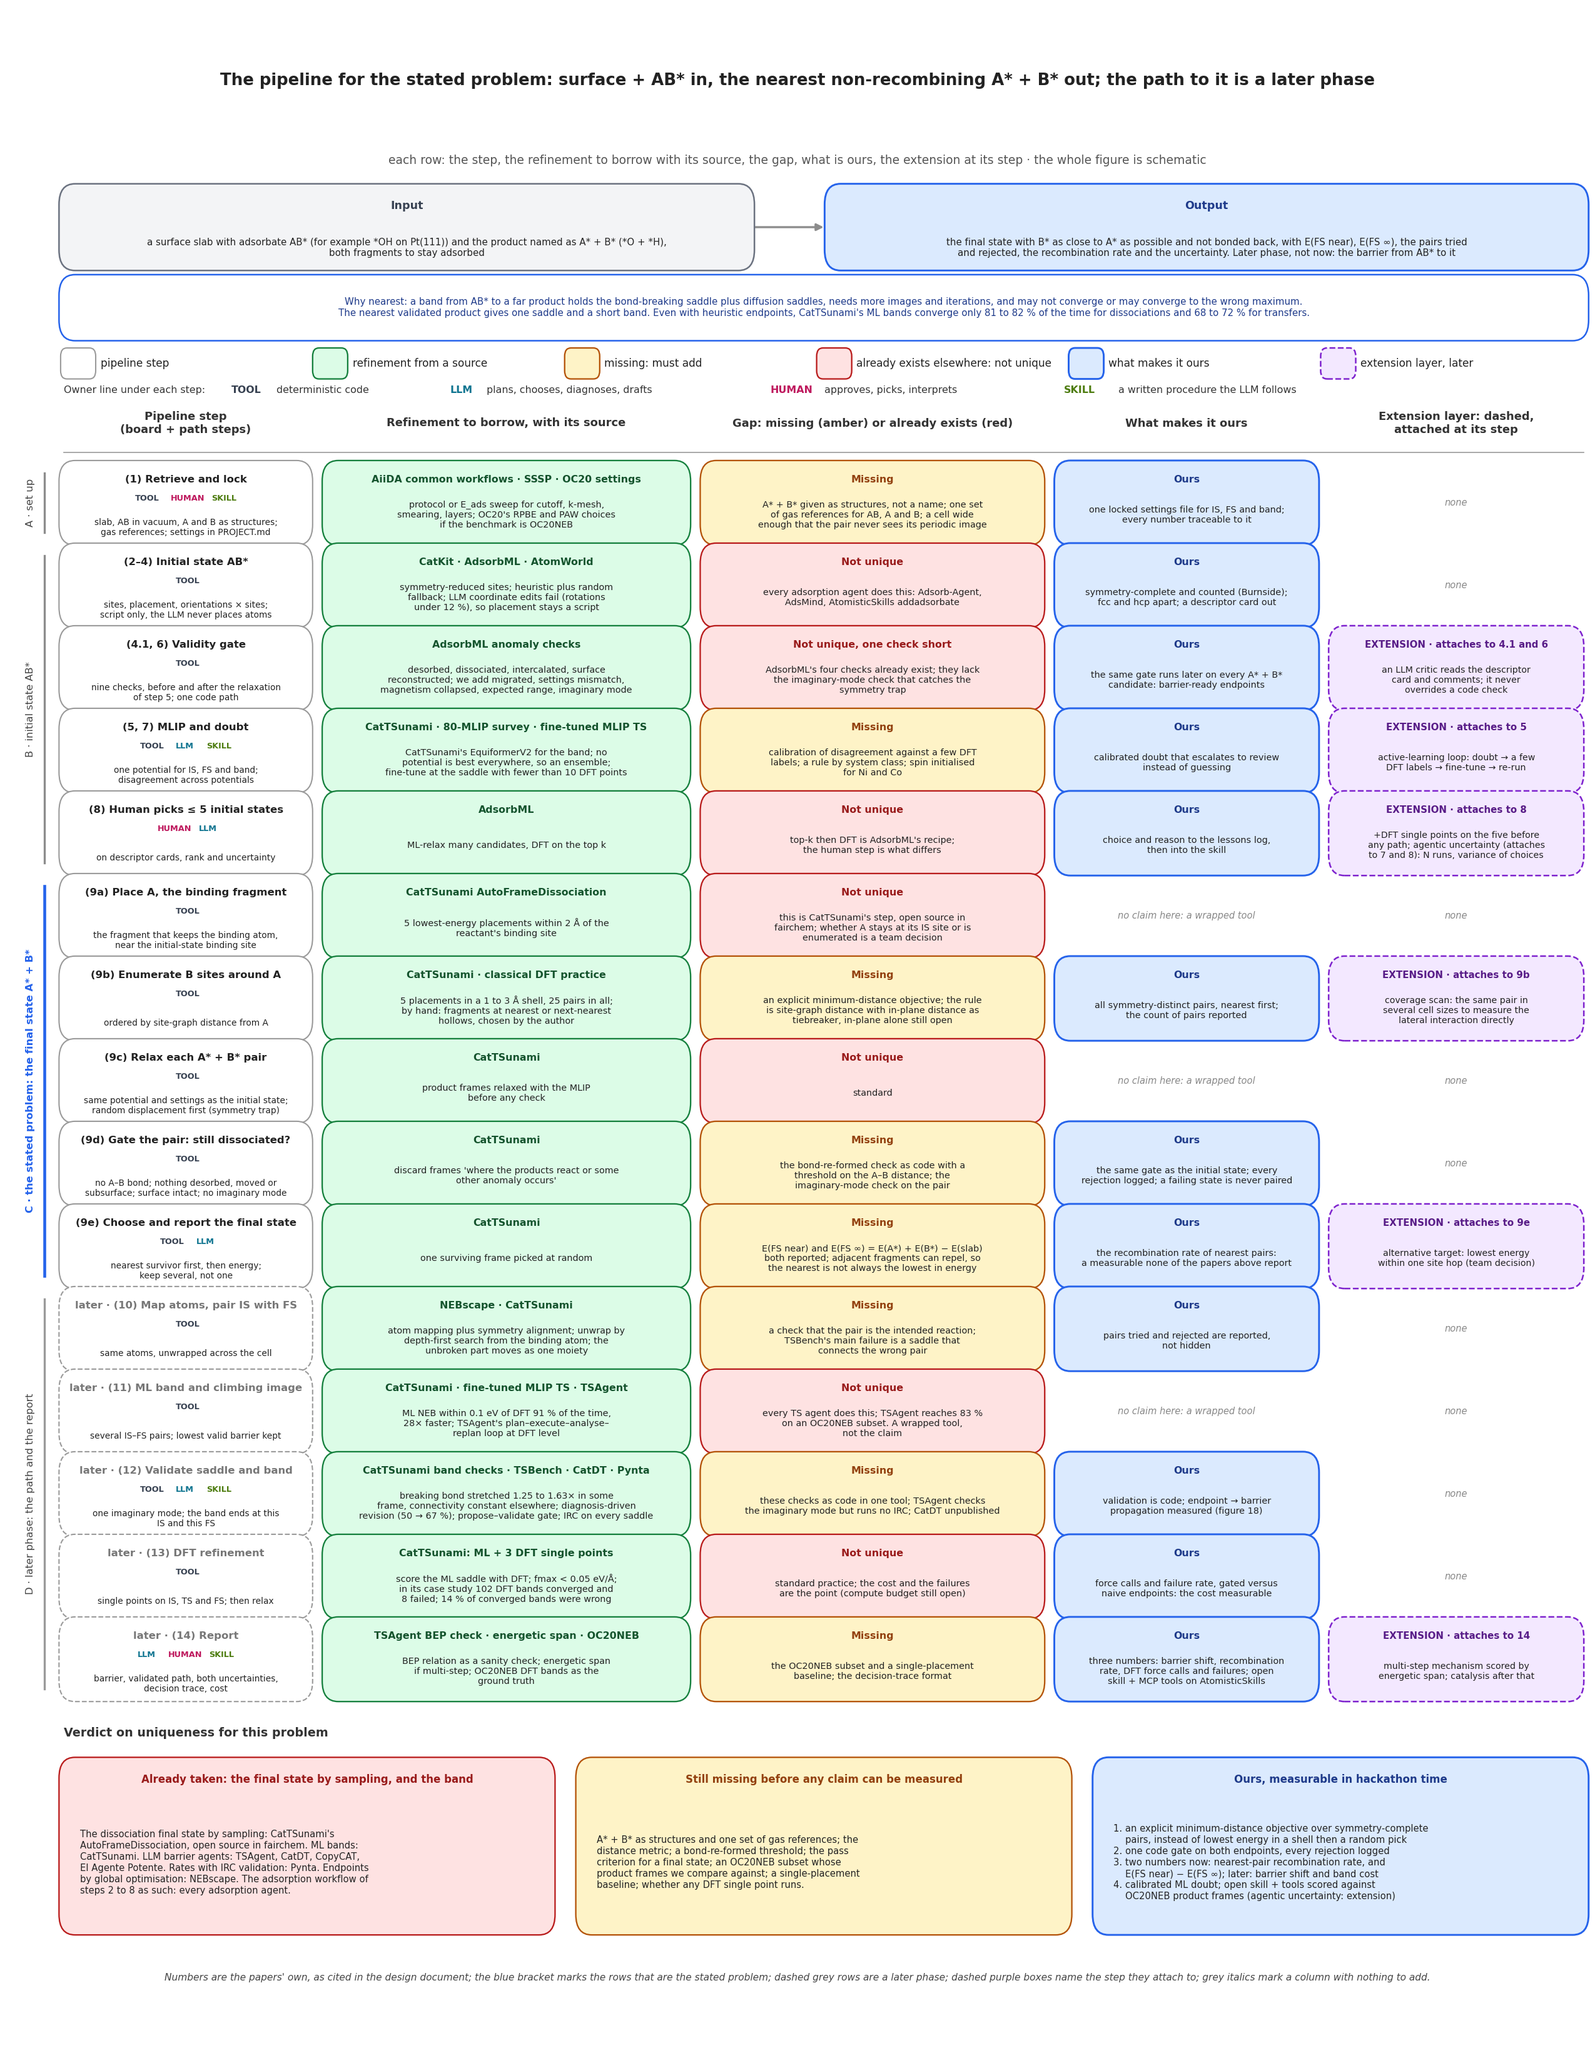
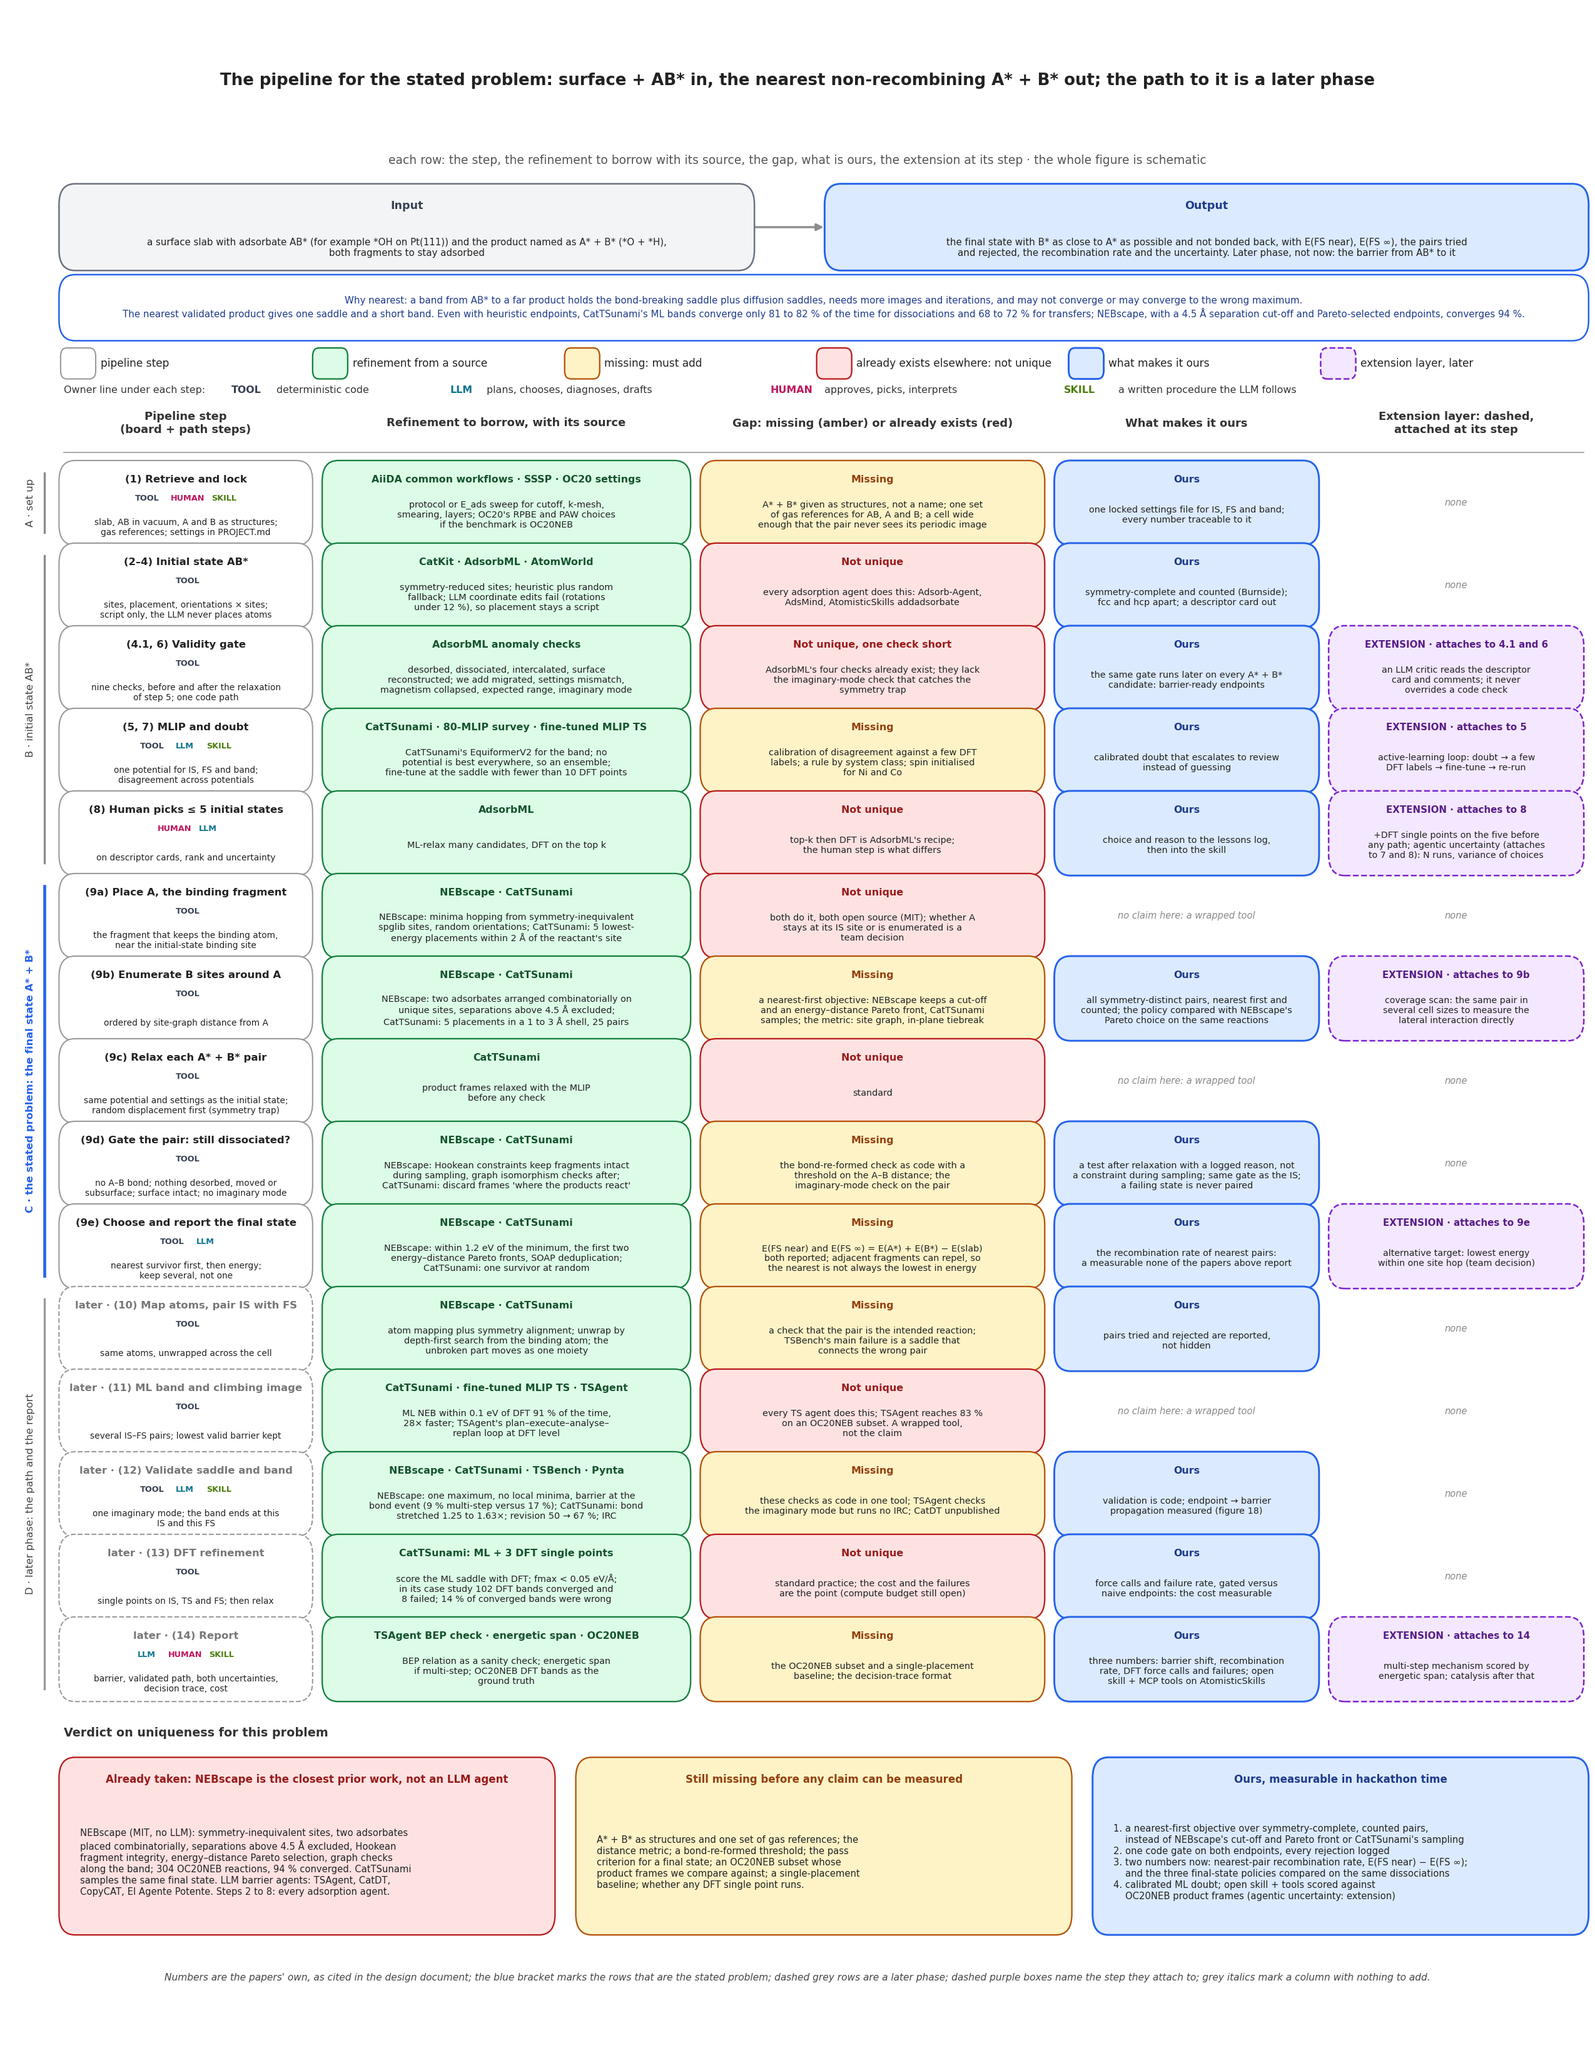
Figures: NEBscape is the closest prior work for the final state
From the NEBscape paper: symmetry-inequivalent sites, combinatorial two-adsorbate placement, separations above 4.5 Å excluded, Hookean fragment integrity, energy–distance Pareto selection, graph checks along the band, 304 OC20NEB reactions, 94 % converged. Figures 21, 22 and 23 now compare the three final-state policies: nearest-first (ours), Pareto (NEBscape), sampled (CatTSunami). The design document and agent context follow once the condensing pass on them is done.

diff --git a/docs/figures/src/23-problem-pipeline.py b/docs/figures/src/23-problem-pipeline.py
@@ -36,7 +36,7 @@ ax.text(0.7565, 0.875, "the final state with B* as close to A* as possible and n
 ax.add_patch(FancyBboxPatch((0.04, 0.838), 0.953, 0.026, boxstyle="round,pad=0.003,rounding_size=0.01", fc="white", ec=HI_EDGE, lw=1.2, zorder=2))
 ax.text(0.5165, 0.851, "Why nearest: a band from AB* to a far product holds the bond-breaking saddle plus diffusion saddles, needs more images and iterations, and may not converge "
         "or may converge to the wrong maximum.\nThe nearest validated product gives one saddle and a short band. Even with heuristic endpoints, CatTSunami's ML bands converge only "
-        "81 to 82 % of the time for dissociations and 68 to 72 % for transfers.",
+        "81 to 82 % of the time for dissociations and 68 to 72 % for transfers; NEBscape, with a 4.5 Å separation cut-off and Pareto-selected endpoints, converges 94 %.",
         ha="center", va="center", fontsize=7.2, color="#1e3a8a", zorder=3, linespacing=1.25)
 
 # ---- legend
@@ -110,24 +110,24 @@ rows = [
   "choice and reason to the lessons log,\nthen into the skill",
   ("EXTENSION · attaches to 8", "+DFT single points on the five before\nany path; agentic uncertainty (attaches\nto 7 and 8): N runs, variance of choices")),
  ("(9a) Place A, the binding fragment", "the fragment that keeps the binding atom,\nnear the initial-state binding site",
-  ("CatTSunami AutoFrameDissociation", "5 lowest-energy placements within 2 Å of the\nreactant's binding site"),
-  ("exists", "Not unique", "this is CatTSunami's step, open source in\nfairchem; whether A stays at its IS site or is\nenumerated is a team decision"),
+  ("NEBscape · CatTSunami", "NEBscape: minima hopping from symmetry-inequivalent\nspglib sites, random orientations; CatTSunami: 5 lowest-\nenergy placements within 2 Å of the reactant's site"),
+  ("exists", "Not unique", "both do it, both open source (MIT); whether A\nstays at its IS site or is enumerated is a\nteam decision"),
   None, None),
  ("(9b) Enumerate B sites around A", "ordered by site-graph distance from A",
-  ("CatTSunami · classical DFT practice", "5 placements in a 1 to 3 Å shell, 25 pairs in all;\nby hand: fragments at nearest or next-nearest\nhollows, chosen by the author"),
-  ("missing", "Missing", "an explicit minimum-distance objective; the rule\nis site-graph distance with in-plane distance as\ntiebreaker, in-plane alone still open"),
-  "all symmetry-distinct pairs, nearest first;\nthe count of pairs reported",
+  ("NEBscape · CatTSunami", "NEBscape: two adsorbates arranged combinatorially on\nunique sites, separations above 4.5 Å excluded;\nCatTSunami: 5 placements in a 1 to 3 Å shell, 25 pairs"),
+  ("missing", "Missing", "a nearest-first objective: NEBscape keeps a cut-off\nand an energy–distance Pareto front, CatTSunami\nsamples; the metric: site graph, in-plane tiebreak"),
+  "all symmetry-distinct pairs, nearest first and\ncounted; the policy compared with NEBscape's\nPareto choice on the same reactions",
   ("EXTENSION · attaches to 9b", "coverage scan: the same pair in\nseveral cell sizes to measure the\nlateral interaction directly")),
  ("(9c) Relax each A* + B* pair", "same potential and settings as the initial state;\nrandom displacement first (symmetry trap)",
   ("CatTSunami", "product frames relaxed with the MLIP\nbefore any check"),
   ("exists", "Not unique", "standard"),
   None, None),
  ("(9d) Gate the pair: still dissociated?", "no A–B bond; nothing desorbed, moved or\nsubsurface; surface intact; no imaginary mode",
-  ("CatTSunami", "discard frames 'where the products react or some\nother anomaly occurs'"),
+  ("NEBscape · CatTSunami", "NEBscape: Hookean constraints keep fragments intact\nduring sampling, graph isomorphism checks after;\nCatTSunami: discard frames 'where the products react'"),
   ("missing", "Missing", "the bond-re-formed check as code with a\nthreshold on the A–B distance; the\nimaginary-mode check on the pair"),
-  "the same gate as the initial state; every\nrejection logged; a failing state is never paired", None),
+  "a test after relaxation with a logged reason, not\na constraint during sampling; same gate as the IS;\na failing state is never paired", None),
  ("(9e) Choose and report the final state", "nearest survivor first, then energy;\nkeep several, not one",
-  ("CatTSunami", "one surviving frame picked at random"),
+  ("NEBscape · CatTSunami", "NEBscape: within 1.2 eV of the minimum, the first two\nenergy–distance Pareto fronts, SOAP deduplication;\nCatTSunami: one survivor at random"),
   ("missing", "Missing", "E(FS near) and E(FS ∞) = E(A*) + E(B*) − E(slab)\nboth reported; adjacent fragments can repel, so\nthe nearest is not always the lowest in energy"),
   "the recombination rate of nearest pairs:\na measurable none of the papers above report",
   ("EXTENSION · attaches to 9e", "alternative target: lowest energy\nwithin one site hop (team decision)")),
@@ -140,7 +140,7 @@ rows = [
   ("exists", "Not unique", "every TS agent does this; TSAgent reaches 83 %\non an OC20NEB subset. A wrapped tool,\nnot the claim"),
   None, None),
  ("(12) Validate saddle and band", "one imaginary mode; the band ends at this\nIS and this FS",
-  ("CatTSunami band checks · TSBench · CatDT · Pynta", "breaking bond stretched 1.25 to 1.63× in some\nframe, connectivity constant elsewhere; diagnosis-driven\nrevision (50 → 67 %); propose–validate gate; IRC on every saddle"),
+  ("NEBscape · CatTSunami · TSBench · Pynta", "NEBscape: one maximum, no local minima, barrier at the\nbond event (9 % multi-step versus 17 %); CatTSunami: bond\nstretched 1.25 to 1.63×; revision 50 → 67 %; IRC"),
   ("missing", "Missing", "these checks as code in one tool; TSAgent checks\nthe imaginary mode but runs no IRC; CatDT unpublished"),
   "validation is code; endpoint → barrier\npropagation measured (figure 18)", None),
  ("(13) DFT refinement", "single points on IS, TS and FS; then relax",
@@ -181,12 +181,12 @@ for lab, a, b, col in phases:
 yb, hb = 0.066, 0.080
 ax.text(0.04, yb + hb + 0.012, "Verdict on uniqueness for this problem", ha="left", va="bottom", fontsize=9.2, fontweight="bold", color="#333333")
 bw = 0.305
-verd = [("exists", "Already taken: the final state by sampling, and the band",
-         "The dissociation final state by sampling: CatTSunami's\nAutoFrameDissociation, open source in fairchem. ML bands:\nCatTSunami. LLM barrier agents: TSAgent, CatDT, CopyCAT,\nEl Agente Potente. Rates with IRC validation: Pynta. Endpoints\nby global optimisation: NEBscape. The adsorption workflow of\nsteps 2 to 8 as such: every adsorption agent."),
+verd = [("exists", "Already taken: NEBscape is the closest prior work, not an LLM agent",
+         "NEBscape (MIT, no LLM): symmetry-inequivalent sites, two adsorbates\nplaced combinatorially, separations above 4.5 Å excluded, Hookean\nfragment integrity, energy–distance Pareto selection, graph checks\nalong the band; 304 OC20NEB reactions, 94 % converged. CatTSunami\nsamples the same final state. LLM barrier agents: TSAgent, CatDT,\nCopyCAT, El Agente Potente. Steps 2 to 8: every adsorption agent."),
         ("missing", "Still missing before any claim can be measured",
          "A* + B* as structures and one set of gas references; the\ndistance metric; a bond-re-formed threshold; the pass\ncriterion for a final state; an OC20NEB subset whose\nproduct frames we compare against; a single-placement\nbaseline; whether any DFT single point runs."),
         ("ours", "Ours, measurable in hackathon time",
-         "1. an explicit minimum-distance objective over symmetry-complete\n    pairs, instead of lowest energy in a shell then a random pick\n2. one code gate on both endpoints, every rejection logged\n3. two numbers now: nearest-pair recombination rate, and\n    E(FS near) − E(FS ∞); later: barrier shift and band cost\n4. calibrated ML doubt; open skill + tools scored against\n    OC20NEB product frames (agentic uncertainty: extension)")]
+         "1. a nearest-first objective over symmetry-complete, counted pairs,\n    instead of NEBscape's cut-off and Pareto front or CatTSunami's sampling\n2. one code gate on both endpoints, every rejection logged\n3. two numbers now: nearest-pair recombination rate, E(FS near) − E(FS ∞);\n    and the three final-state policies compared on the same dissociations\n4. calibrated ML doubt; open skill + tools scored against\n    OC20NEB product frames (agentic uncertainty: extension)")]
 for j, (k, h, b) in enumerate(verd):
     x0 = 0.04 + j * (bw + 0.019)
     ax.add_patch(FancyBboxPatch((x0, yb), bw, hb, boxstyle="round,pad=0.003,rounding_size=0.01", zorder=2, **KIND[k]))

diff --git a/docs/figures/src/21-nearest-non-recombining-final-state.py b/docs/figures/src/21-nearest-non-recombining-final-state.py
@@ -90,20 +90,20 @@ fig.text(0.25, 0.41, "Nearest valid state: one saddle, a short band, fewer faile
 
 # ---------- bottom right: recipe
 ax = fig.add_axes([0.50, 0.05, 0.48, 0.37]); ax.axis("off"); ax.set_xlim(0, 1); ax.set_ylim(0, 1)
-fig.text(0.74, 0.41, "The recipe: CatTSunami's AutoFrameDissociation, and what we add (blue)", ha="center", fontsize=8.8, fontweight="bold")
-steps = [("1  Place A, the fragment that keeps the binding atom", "CatTSunami: 5 lowest-energy placements within 2 Å of the old binding site",
+fig.text(0.74, 0.41, "The recipe: what CatTSunami and NEBscape do at each step, and what we add (blue)", ha="center", fontsize=8.8, fontweight="bold")
+steps = [("1  Place A, the fragment that keeps the binding atom", "CatTSunami: 5 lowest-energy placements within 2 Å of the old site · NEBscape: minima hopping from symmetry-inequivalent sites",
           "ours: all symmetry-distinct placements, counted"),
-         ("2  Place B in a shell around A", "CatTSunami: 5 placements in a 1 to 3 Å shell, 25 pairs in all",
-          "ours: all symmetry-distinct pairs by site-graph distance"),
-         ("3  Relax each pair with the MLIP, then gate", "CatTSunami: discard frames 'where the products react' or show an anomaly",
-          "ours: same gate as the initial state; bond re-formed, desorbed, moved, surface changed"),
-         ("4  Choose", "CatTSunami: one surviving frame picked at random",
+         ("2  Place B around A", "CatTSunami: 5 placements in a 1 to 3 Å shell, 25 pairs · NEBscape: combinatorial on unique sites, separations above 4.5 Å excluded",
+          "ours: all symmetry-distinct pairs by site-graph distance, nearest first"),
+         ("3  Relax each pair with the MLIP, then gate", "CatTSunami: discard frames 'where the products react' · NEBscape: Hookean constraints keep fragments intact; graph checks",
+          "ours: one gate after relaxation with a logged reason: bond re-formed, desorbed, moved, surface changed"),
+         ("4  Choose", "CatTSunami: one survivor at random · NEBscape: within 1.2 eV, the first two energy–distance Pareto fronts",
           "ours: nearest surviving pair first, then energy; keep several; report rejected pairs and E(FS near) − E(FS ∞)")]
 y = 0.93; h = 0.19
 for t, cat, ours in steps:
     box(ax, 0.01, y - h, 0.98, h, t, fs=7.9)
     ax.texts[-1].set_position((0.5, y - 0.012)); ax.texts[-1].set_va("top")
-    ax.text(0.5, y - h + 0.062, cat, ha="center", va="bottom", fontsize=6.9, zorder=3)
+    ax.text(0.5, y - h + 0.062, cat, ha="center", va="bottom", fontsize=6.4, zorder=3)
     ax.text(0.5, y - h + 0.018, ours, ha="center", va="bottom", fontsize=6.9, color=HI_EDGE, zorder=3)
     y -= h + 0.03
 ax.text(0.5, 0.0, "E(FS ∞) = E(A*) + E(B*) − E(slab) from separate cells; the difference to E(FS near) is the lateral interaction",

diff --git a/docs/figures/src/22-build-plan.py b/docs/figures/src/22-build-plan.py
@@ -82,7 +82,7 @@ task(2, 4, "T10", "ext", "Active-learning loop", "high doubt → a few DFT label
 
 # ---- column 3: path
 task(3, 0, "P1", "build", "Nearest non-recombining FS", "enumerate pairs, relax, gate, rank by\nsite distance; keep several; report\nrejected pairs and E(FS near) − E(FS ∞)",
-     reuse="fairchem AutoFrameDissociation", needs="T2, T4, T6, D5", badge=6)
+     reuse="NEBscape endpoint generator (MIT), fairchem helpers", needs="T2, T4, T6, D5", badge=6)
 task(3, 1, "P2", "ext", "Later: pairing and connectivity", "atom mapping and unwrapping across the\ncell; check the IS–FS pair is the\nintended reaction",
      reuse="CatTSunami interpolation, NEBscape idea", needs="P1")
 task(3, 2, "P3", "ext", "Later: ML band and climbing image", "band on the MLIP, climbing image or\ndimer refinement; several pairs per\nreaction, lowest valid kept",
@@ -95,9 +95,9 @@ task(3, 4, "P5", "build", "DFT check and report", "DFT single points on the chos
 # ---- column 4: measure and release
 task(4, 0, "M1", "measure", "H on Pt(111) end to end", "steps 1 to 8 on the simplest system;\nE_ads against CE27 and OC20",
      needs="T1 to T8")
-task(4, 1, "M2", "measure", "*OH final state against OC20NEB", "our nearest final state versus the product\nframe of the released band: distance, energy,\nvalidity; the pass criterion is D3",
+task(4, 1, "M2", "measure", "*OH final state: OC20NEB and NEBscape", "our nearest final state versus the OC20NEB\nproduct frame and NEBscape's Pareto choice:\ndistance, energy, validity; the pass criterion is D3",
      needs="P1, P5, D3", badge=7)
-task(4, 2, "M3", "measure", "Two numbers nobody reports", "how often the nearest pair bonds back, per\nsystem and per shell; E(FS near) − E(FS ∞), the\nlateral interaction. Later: the barrier shift\nand the band cost from gated endpoints",
+task(4, 2, "M3", "measure", "Two numbers and one comparison", "how often the nearest pair bonds back, per\nsystem and per shell; E(FS near) − E(FS ∞); the\nthree final-state policies, nearest-first, Pareto,\nsampled, on the same OC20NEB dissociations",
      needs="P1, P5")
 task(4, 3, "M4", "measure", "Ni(111) doubt demo", "the agent flags ML disagreement and\nstops for review instead of guessing",
      needs="T7, T8")
